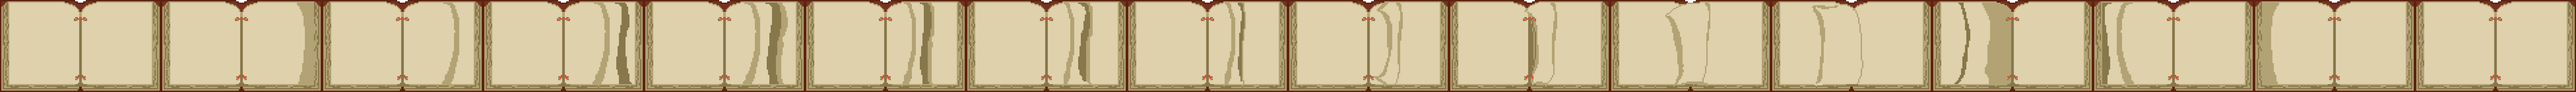
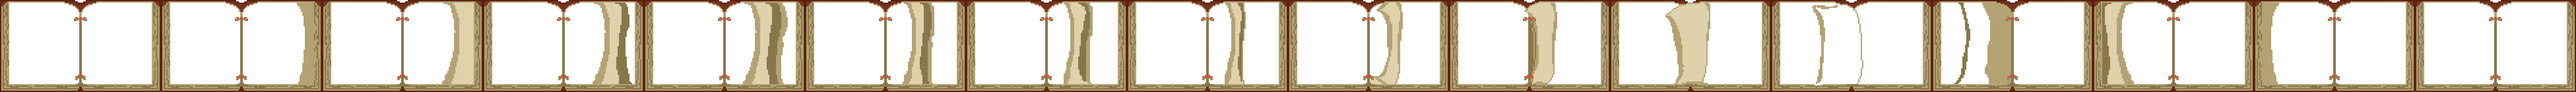
Update book rendering and animations

diff --git a/src/main/java/com/isofarm/gui/BookUI.java b/src/main/java/com/isofarm/gui/BookUI.java
@@ -284,21 +284,23 @@ public class BookUI extends UIElement {
         float alpha = easeInOutCubic(animationProgress);
         float y = lerp(screenHeight, centerY, alpha);
 
+        Vector4f color = new Vector4f(0.8706f, 0.8196f, 0.6745f, 1.0f);
+        GUI.drawRect(centerX, y, bookWidth, bookHeight, color);
         if (isFlippingPage) {
             pageFlipTimer += delta;
             float progress = Math.min(1.0f, pageFlipTimer / PAGE_FLIP_DURATION);
             float animFrameProgress = isFlippingNext ? progress : (1.0f - progress);
             int currentFrame = (int) (animFrameProgress * (TOTAL_ANIM_FRAMES - 1));
-            GUI.drawSprite(animSheet, currentFrame, centerX, y, bookWidth, bookHeight, new Vector4f(1.0f));
             renderFlippingSpread(book, centerX, y, bookWidth, bookHeight, alpha, progress);
+            GUI.drawSprite(animSheet, currentFrame, centerX, y, bookWidth, bookHeight, new Vector4f(1.0f));
 
             if (progress >= 1.0f) {
                 isFlippingPage = false;
             }
 
         } else {
-            GUI.drawSprite(animSheet, 0, centerX, y, bookWidth, bookHeight, new Vector4f(1.0f));
             renderSpread(book, centerX, y, animSheet, scale, alpha);
+            GUI.drawSprite(animSheet, 0, centerX, y, bookWidth, bookHeight, new Vector4f(1.0f));
         }
         renderChildren();
     }
